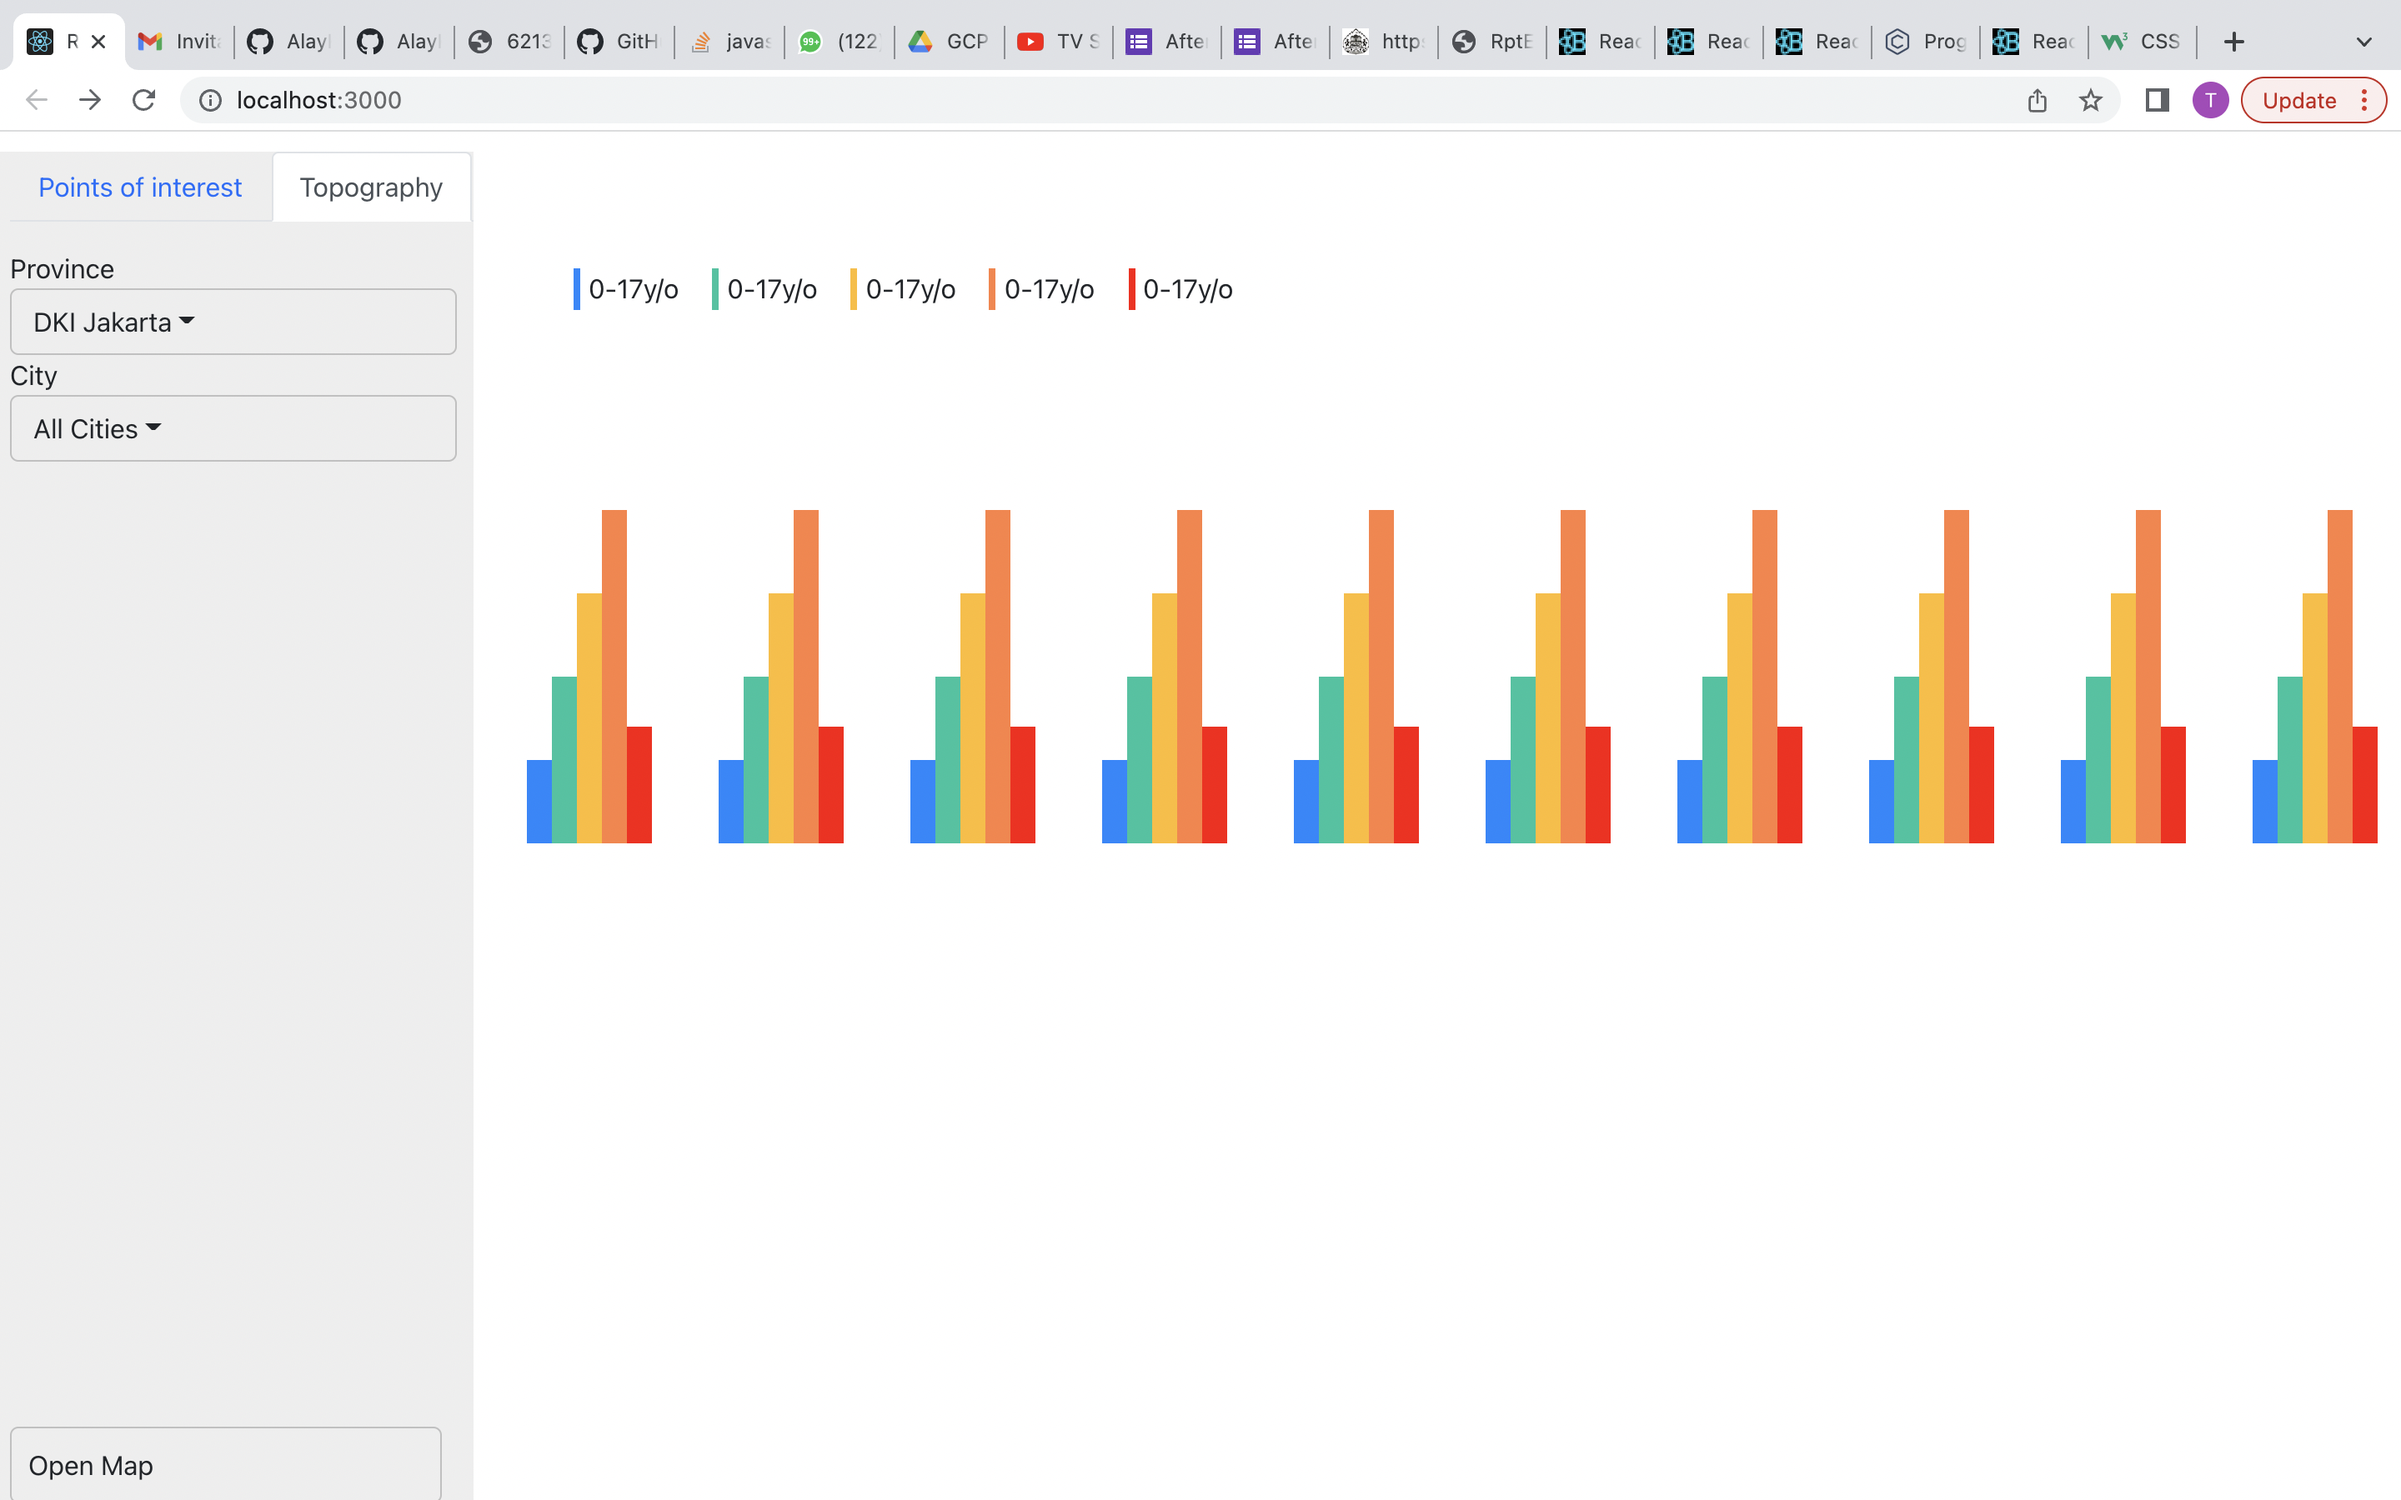
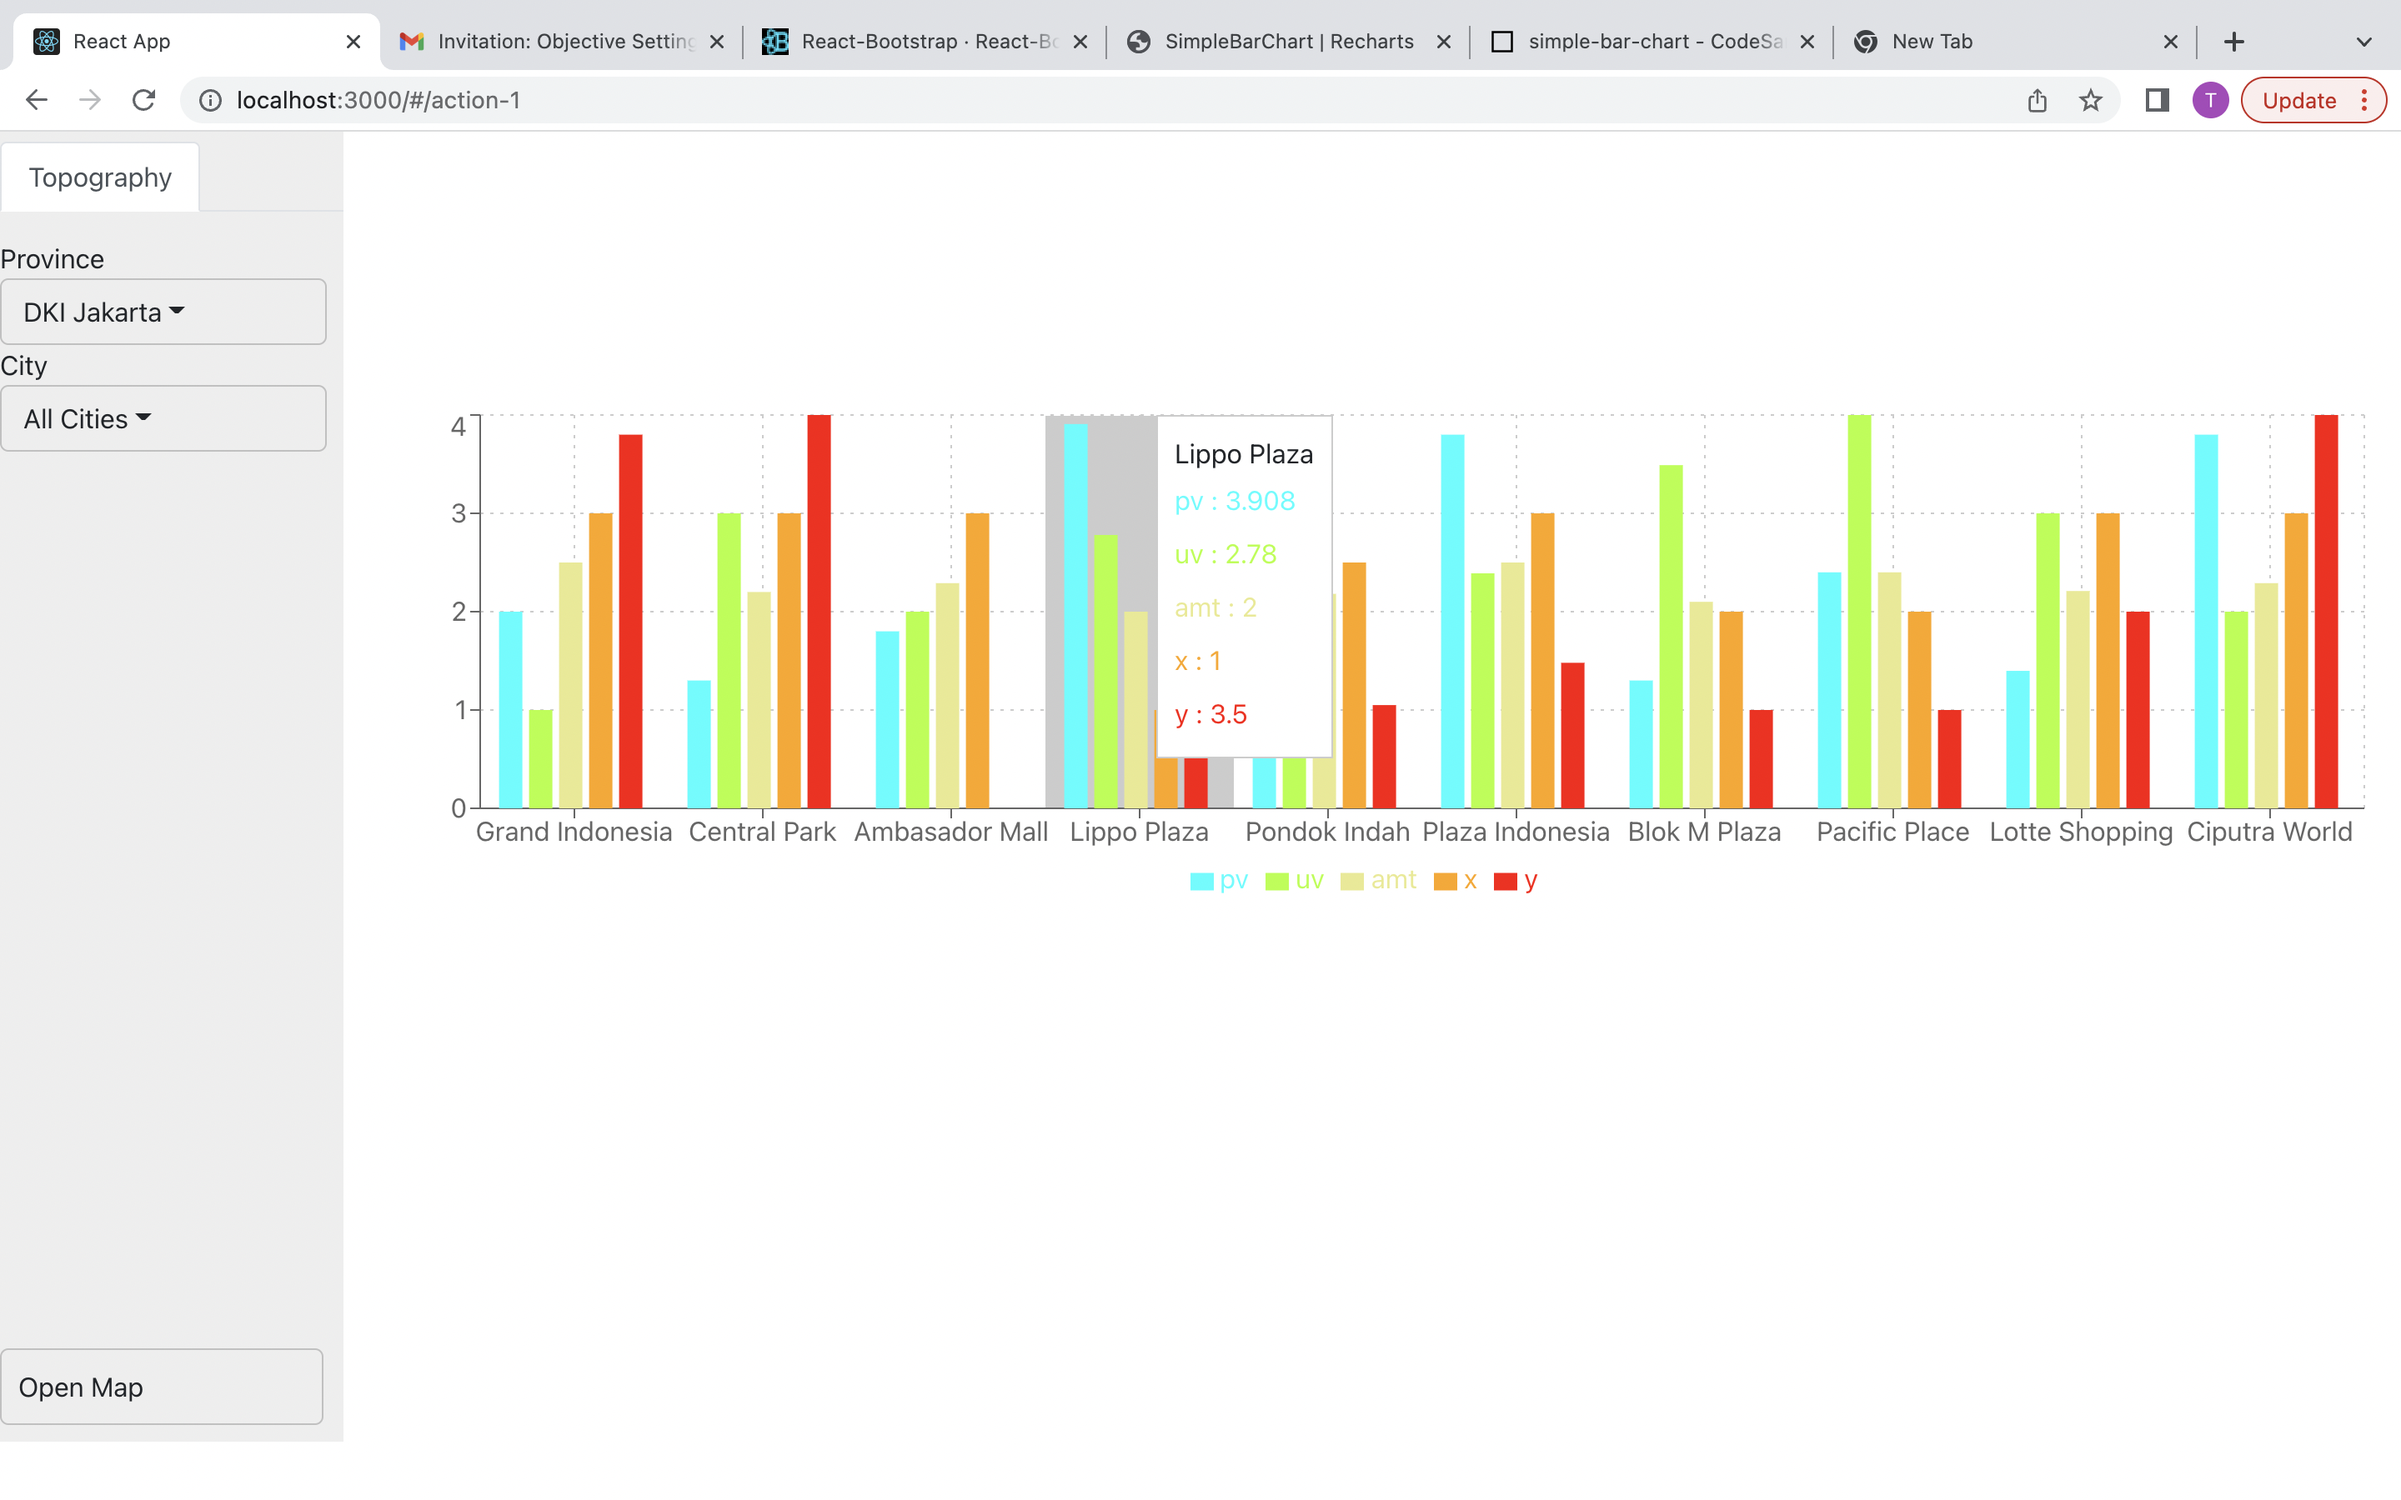
Updated code

diff --git a/src/Components/Example/Example.js b/src/Components/Example/Example.js
@@ -1,0 +1,125 @@
+import "./Example.css";
+import React from "react";
+import {
+    BarChart,
+    Bar,
+    XAxis,
+    YAxis,
+    CartesianGrid,
+    Tooltip,
+    Legend
+} from "recharts";
+
+const data = [
+    {
+        name: 'Grand Indonesia',
+        uv: 1,
+        pv: 2,
+        amt: 2.5,
+        x: 3,
+        y: 3.8
+    },
+    {
+        name: 'Central Park',
+        uv: 3,
+        pv: 1.3,
+        amt: 2.2,
+        x: 3,
+        y: 4
+    },
+    {
+        name: 'Ambasador Mall',
+        uv: 2.000,
+        pv: 1.800,
+        amt: 2.290,
+        x: 3.000,
+        y: .000
+    },
+    {
+        name: 'Lippo Plaza',
+        uv: 2.780,
+        pv: 3.908,
+        amt: 2.000,
+        x: 1.000,
+        y: 3.500
+    },
+    {
+        name: 'Pondok Indah',
+        uv: 1.890,
+        pv: 3.800,
+        amt: 2.181,
+        x: 2.500,
+        y: 1.050
+    },
+    {
+        name: 'Plaza Indonesia',
+        uv: 2.390,
+        pv: 3.800,
+        amt: 2.500,
+        x: 3.000,
+        y: 1.480
+    },
+    {
+        name: 'Blok M Plaza',
+        uv: 3.490,
+        pv: 1.300,
+        amt: 2.100,
+        x: 2.000,
+        y: 1.000
+    },
+    {
+        name: 'Pacific Place',
+        uv: 4.000,
+        pv: 2.400,
+        amt: 2.400,
+        x: 2.000,
+        y: 1.000
+    },
+    {
+        name: 'Lotte Shopping',
+        uv: 3.000,
+        pv: 1.398,
+        amt: 2.210,
+        x: 3.000,
+        y: 2.000
+    },
+    {
+        name: 'Ciputra World',
+        uv: 2.000,
+        pv: 3.800,
+        amt: 2.290,
+        x: 3.000,
+        y: 4.000
+    },
+
+];
+
+export default function Example() {
+    return (
+        <div class="container">
+            <BarChart
+                width={1210}
+                height={300}
+                data={data}
+                margin={{
+                    top: 5,
+                    right: 10,
+                    left: 10,
+                    bottom: 5
+                }}
+            >
+                <CartesianGrid strokeDasharray="2 4" />
+                <XAxis dataKey="name" />
+                <YAxis />
+                <Tooltip />
+                <Legend />
+                <Bar dataKey="pv" fill="aqua" />
+                <Bar dataKey="uv" fill="#adff2f" />
+                <Bar dataKey="amt" fill="#e9e98e" />
+                <Bar dataKey="x" fill="orange" />
+                <Bar dataKey="y" fill="red" />
+            </BarChart>
+        </div>
+
+    );
+}

diff --git a/src/Components/Home/Home.js b/src/Components/Home/Home.js
@@ -2,15 +2,17 @@ import ScatterPlot from "../Scatter/Scatter";
 import BarPlot from "../BarPlot/BarPlot";
 import Sidebar from "../Sidebar/Sidebar";
 import BarG from "../BarG/BarG";
+import Example from "../Example/Example";
 import './Home.css'
 function Home() {
     return (
         // <ScatterPlot/>
         <div class="container">
             <Sidebar />
-            <BarPlot />
+            {/* <BarPlot /> */}
             {/* <ScatterPlot/> */}
             {/* <BarG/> */}
+            <Example/>
             
         </div>
 

diff --git a/src/Components/Sidebar/Sidebar.css b/src/Components/Sidebar/Sidebar.css
@@ -1,5 +1,5 @@
 .sideNav{
-    width: 20vw;
+    width: 15vw;
     background-color: rgb(238, 238, 238);
     height: 100vh;
     padding-left: 10px;

diff --git a/src/Components/Example/Example.css b/src/Components/Example/Example.css
@@ -1,0 +1,7 @@
+.App {
+    font-family: sans-serif;
+    text-align: center;
+  }
+  .container{
+      margin-top: 200px;
+  }
